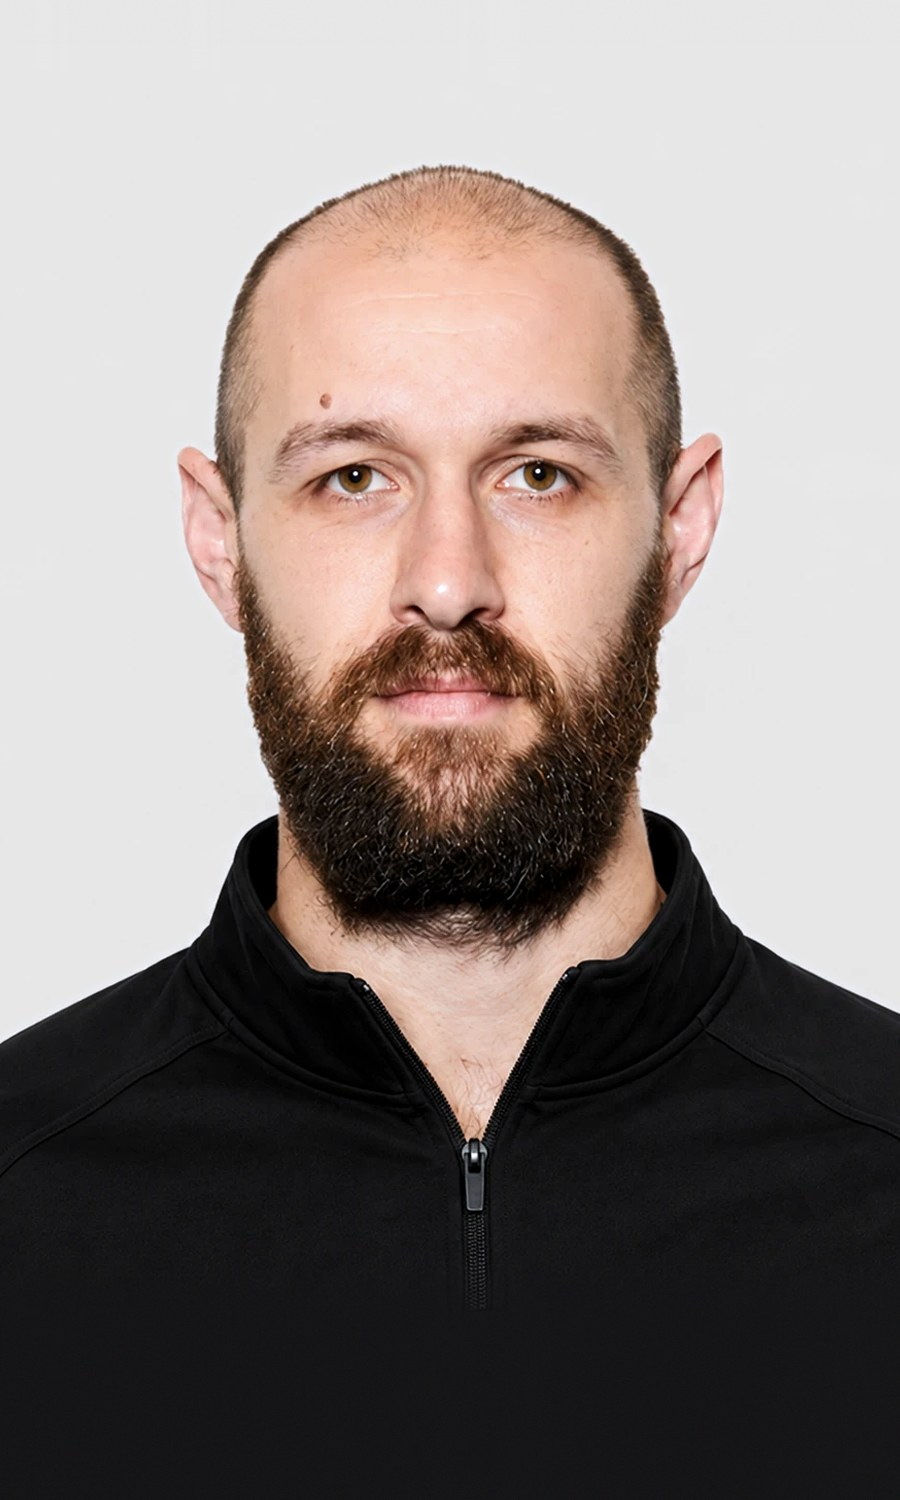
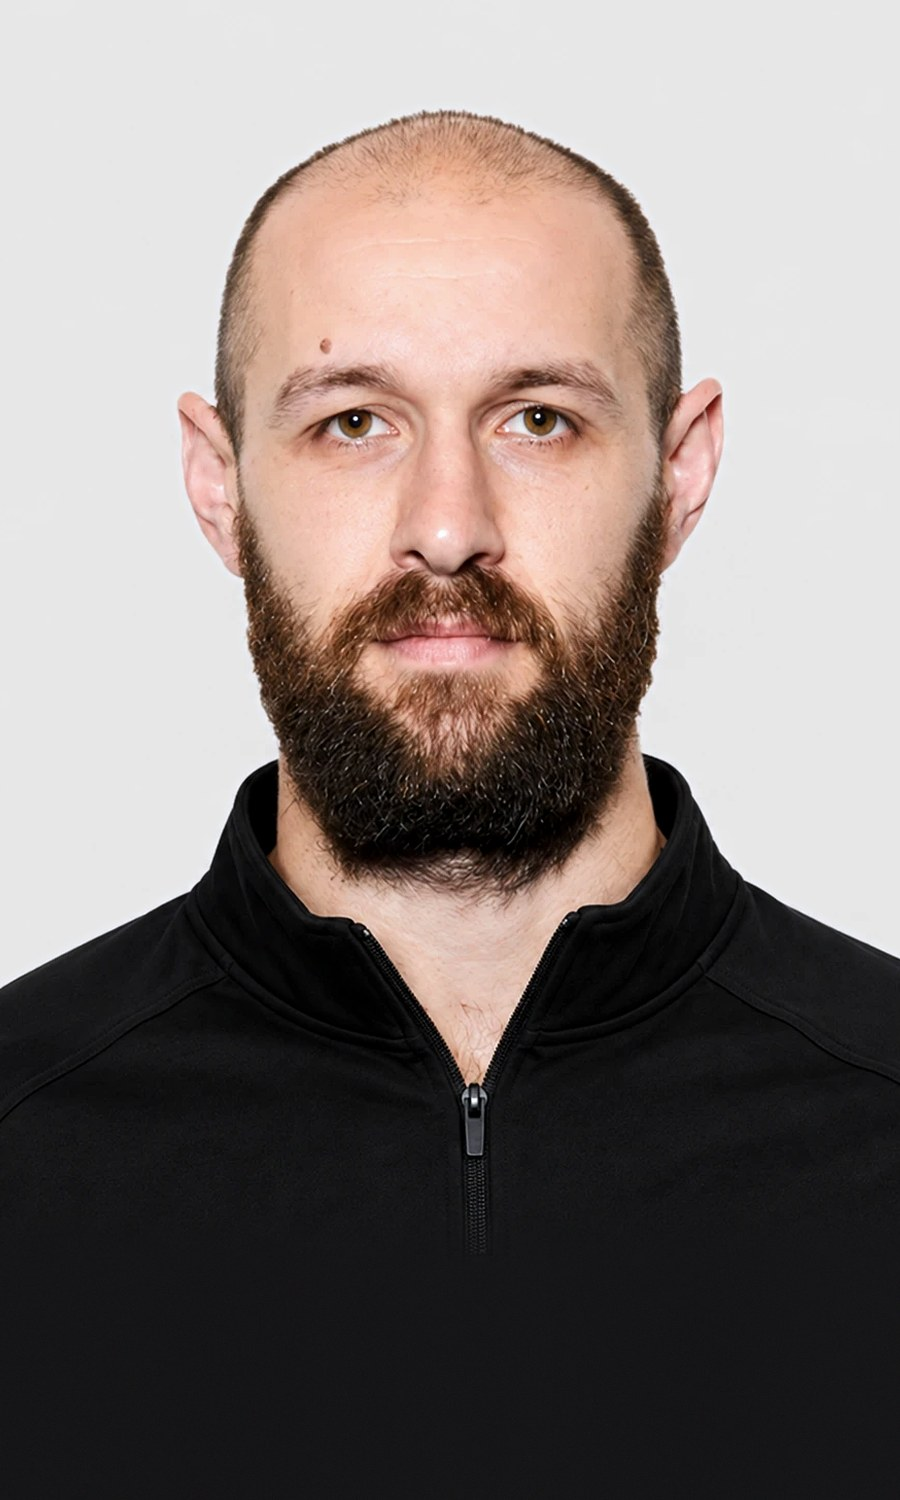
About: Rhys headshot moved up again

Changed region(s): [[0.0, 0.0613, 1.0, 0.828]]

diff --git a/about.html b/about.html
@@ -432,7 +432,7 @@ src="https://www.facebook.com/tr?id=846020845059569&ev=PageView&noscript=1"
       <div class="coach-card coach-card--7">
         <div class="coach-card-frame">
           <div class="coach-card-photo photo">
-            <img src="images/coach-rhys-martin.jpg?v=6" alt="Rhys Martin, Senior Basketball Trainer at The Courts" width="900" height="1500" loading="lazy" decoding="async">
+            <img src="images/coach-rhys-martin.jpg?v=7" alt="Rhys Martin, Senior Basketball Trainer at The Courts" width="900" height="1500" loading="lazy" decoding="async">
             <span class="coach-card-corner"></span>
           </div>
           <div class="coach-card-body">
